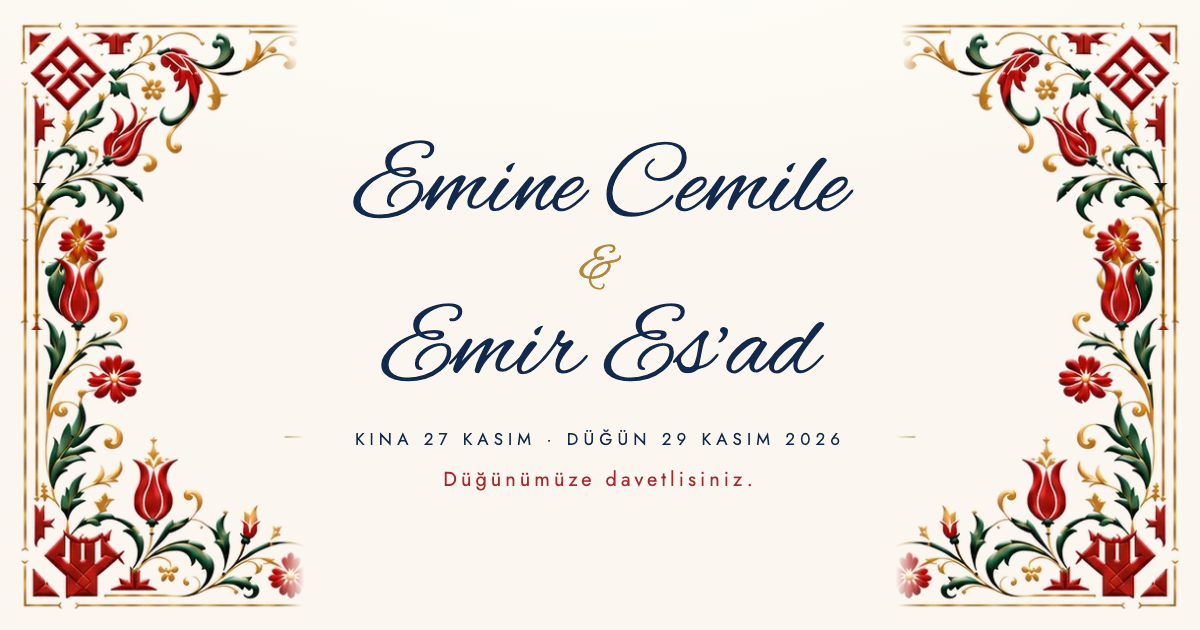
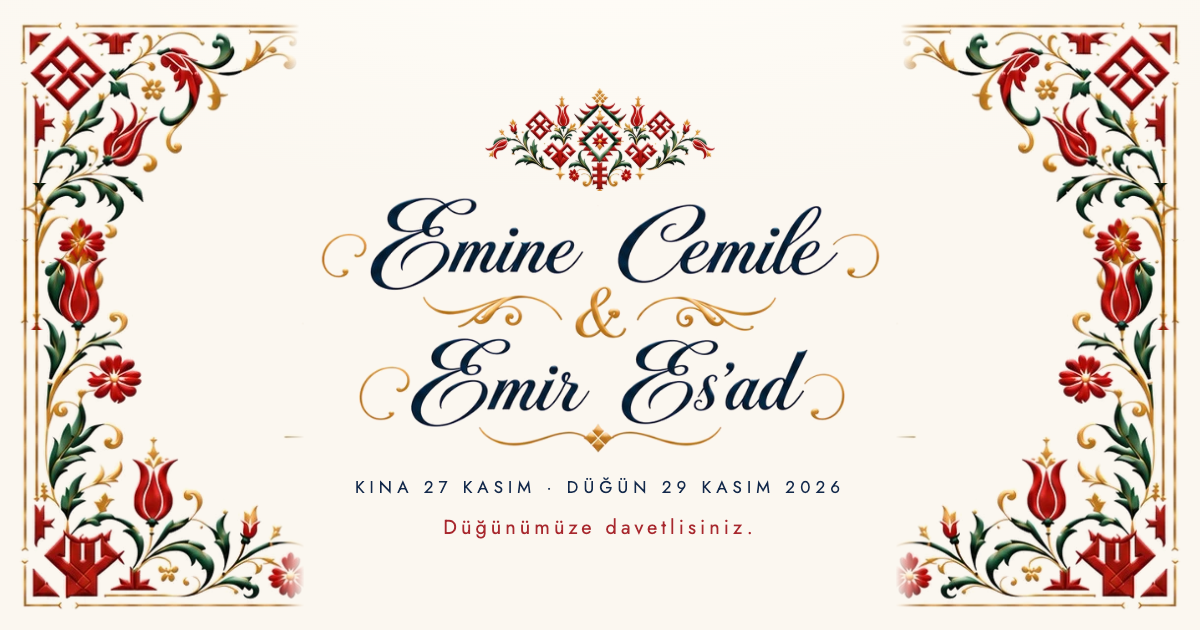
Isimler ve ust suslemesi davetiye gorselinden birebir

diff --git a/index.html b/index.html
@@ -26,8 +26,8 @@
 
 <link rel="icon" href="assets/favicon.svg" type="image/svg+xml" />
 <link rel="apple-touch-icon" href="assets/favicon.svg" />
-<link rel="stylesheet" href="fonts.css?v=20261103j" />
-<link rel="stylesheet" href="styles.css?v=20261103j" />
+<link rel="stylesheet" href="fonts.css?v=20261103l" />
+<link rel="stylesheet" href="styles.css?v=20261103l" />
 </head>
 
 <body class="gate-locked">
@@ -142,10 +142,9 @@
   <!-- 1 — GİRİŞ (basılı davetiye gibi kare kart) -->
   <section class="scene scene--hero" id="hero" data-page="Giriş">
     <div class="wrap hero__inner">
+      <img class="hero__orn rise" src="assets/motif-ust.png" alt="" aria-hidden="true" />
       <h1 class="names rise">
-        <span class="names__l">Emine Cemile</span>
-        <span class="names__amp" aria-hidden="true">&amp;</span>
-        <span class="names__l">Emir Es’ad</span>
+        <img class="names__img" src="assets/isimler.png" alt="Emine Cemile &amp; Emir Es’ad" />
       </h1>
       <p class="hero__date rise">29 Kasım 2026 · Pazar</p>
       <p class="hero__time rise">13.30 – 17.00</p>
@@ -303,6 +302,6 @@
 <nav class="dots" id="dots" aria-label="Davetiye sayfaları"></nav>
 
 <div id="toast" class="toast" role="status" aria-live="polite"></div>
-<script src="script.js?v=20261103j"></script>
+<script src="script.js?v=20261103l"></script>
 </body>
 </html>

diff --git a/og.html b/og.html
@@ -9,6 +9,8 @@ body{width:1200px;height:630px;overflow:hidden;font-family:"Jost",sans-serif;pos
 .tl{top:0;left:0;width:300px}.tr{top:0;right:0;width:300px;transform:scaleX(-1)}
 .bl{bottom:0;left:0;width:305px}.br{bottom:0;right:0;width:305px;transform:scaleX(-1)}
 .c{position:relative;text-align:center;width:640px}
+.orn{display:block;width:230px;margin:0 auto 6px}
+.nm{display:block;width:560px;margin:0 auto}
 h1{font-family:"Alex Brush",cursive;font-weight:400;line-height:1.02;color:#13294B}
 .n{display:block;font-size:104px;white-space:nowrap}
 .amp{display:block;font-size:56px;color:#B08841;line-height:1}
@@ -18,7 +20,7 @@ h1{font-family:"Alex Brush",cursive;font-weight:400;line-height:1.02;color:#1329
 <img class="m tl" src="assets/motif-tl.png"><img class="m tr" src="assets/motif-tl.png">
 <img class="m bl" src="assets/motif-bl.png"><img class="m br" src="assets/motif-bl.png">
 <div class="c">
-  <h1><span class="n">Emine Cemile</span><span class="amp">&amp;</span><span class="n">Emir Es’ad</span></h1>
+  <img class="orn" src="assets/motif-ust.png"><img class="nm" src="assets/isimler.png">
   <p class="date">Kına 27 Kasım · Düğün 29 Kasım 2026</p>
   <p class="inv">Düğünümüze davetlisiniz.</p>
 </div>

diff --git a/styles.css b/styles.css
@@ -589,3 +589,14 @@ body.gate-locked{ overflow:hidden; height:100%; }
 .hero__inner .fam__c{ margin-top:8px; gap:3px; }
 .hero__inner .fam__c span{ font-size:9px; letter-spacing:.16em; }
 .hero__inner .fam__c a{ font-size:clamp(13.5px,3.8vw,16px); }
+
+/* isimler ve üst süs, davetiye görselinden birebir */
+.hero__orn{ display:block; width:min(52%,210px); height:auto; margin:0 auto clamp(4px,1.2vw,8px); }
+.names{ margin:0 -7%; line-height:0; }
+.names__img{ display:block; width:100%; height:auto; }
+.scene--hero{ padding-top:calc(var(--mw) * .5); padding-bottom:calc(var(--mw) * .62); }
+.scene--hero .hero__date{ margin-top:8px; }
+.scene--hero .hero__time{ margin-top:6px; }
+.scene--hero .hero__inv{ margin-top:12px; }
+.scene--hero .count{ margin-top:12px; padding:9px 0; }
+.scene--hero .count__c b{ font-size:clamp(20px,5.6vw,28px); }
